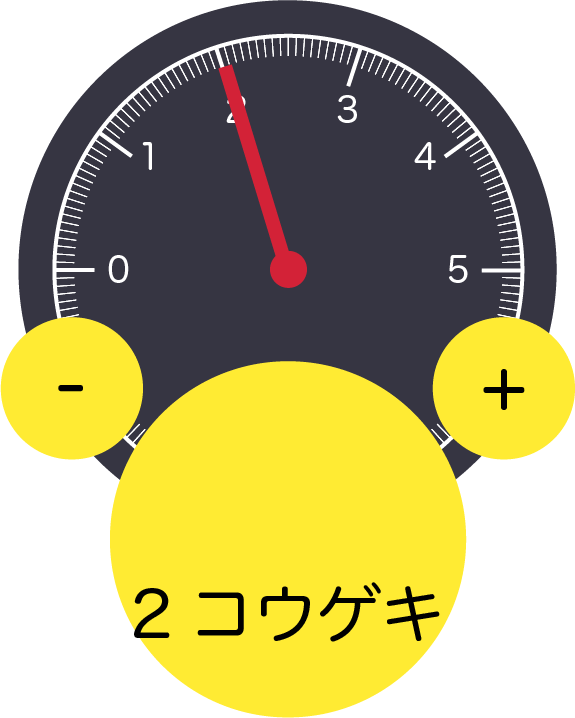
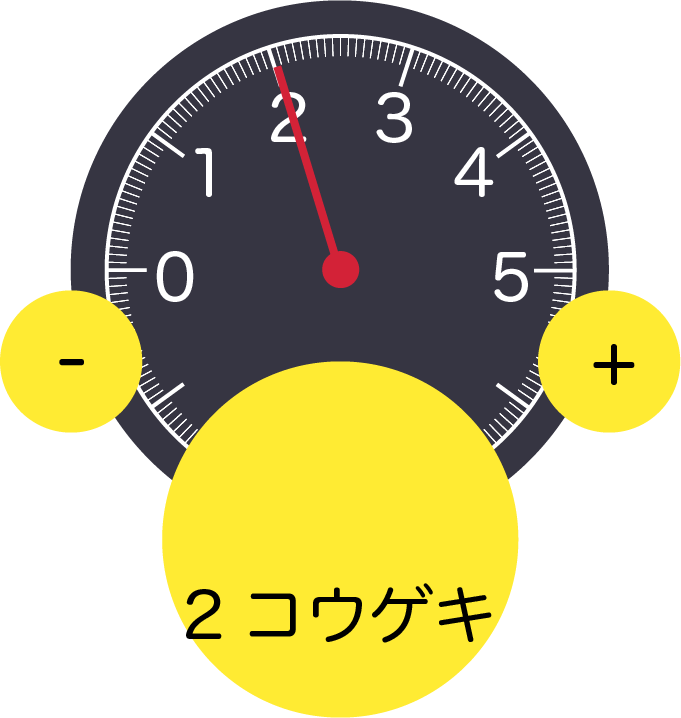
バッテリーセレクタのレイアウトを変更した

diff --git a/src/game-object/battery-selector/view/battery-selector-view.js b/src/game-object/battery-selector/view/battery-selector-view.js
@@ -30,7 +30,7 @@ export class BatterySelectorView {
 
   /** 座標を調整する */
   _setPos(): void {
-    this._group.position.x = window.innerWidth / 2 - BUTTON_SIZE / 2 + 48;
+    this._group.position.x = window.innerWidth / 2 - BUTTON_SIZE / 2 + 32;
     this._group.position.y = -window.innerHeight / 2 + 130;
   }
 }
